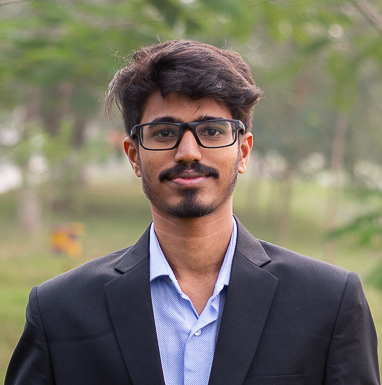
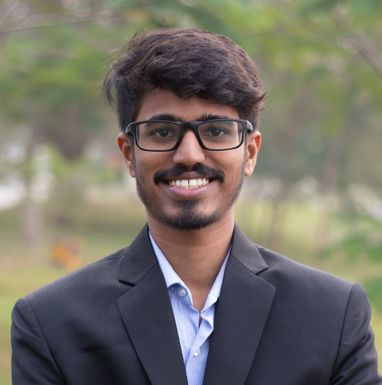
Cover and background changes

diff --git a/speakers.html b/speakers.html
@@ -62,7 +62,7 @@
 <!--header end here-->
 
 <!--page title section-->
-<section class="inner_cover parallax-window" data-parallax="scroll" data-image-src="assets/img/bg/speakers1.jpeg">
+<section class="inner_cover parallax-window" data-parallax="scroll" data-image-src="assets/img/bg/speakers2.jpeg">
     <div class="overlay_dark"></div>
     <div class="container">
         <div class="row justify-content-center align-items-center">
@@ -97,12 +97,12 @@
         <div class="row justify-content-center">
             <div class="col-12 col-md-6">
                 <p align="justify">
-                    At TEDxIITG, we invite speakers from a myriad of backgrounds to share their innovations, struggles and thereby to encourage the audience towards a better, fuller and a sustainable society. As a technical institute IIT Guwahati has always been a supporter of change, inventions, innovation and new 
+                    At TEDxIITGuwahati, we invite speakers from a myriad of backgrounds to share their innovations, struggles and thereby to encourage the audience towards a better, fuller and a sustainable society. As a technical institute IIT Guwahati has always been a supporter of change, inventions, innovation and
                 </p>
             </div>
             <div class="col-12 col-md-6">
                 <p align="justify">
-                     ideas. TEDxIITG reflects the same spirit and holds trust in the esteemed speakers to be a medium for change and for the speakers to turn the audience into harbingers of change.
+                      new ideas. TEDxIITGuwahati reflects the same spirit and holds trust in the esteemed speakers to be a medium for change and for the speakers to turn the audience into harbingers of change.
                 </p>
             </div>
         </div>
@@ -206,7 +206,7 @@
                 </div>
                 <div class="speaker_social">
                     <p align="justify">
-                        Mr. Ravindranath Ravi is resolute and a focused social activist. He has selflessly devoted his entire life towards creation of training systems and successful livelihood options for the so-called backward society. His powerful talk in the 2016 edition of TEDxIITG shed light upon how he managed to turn flood-ravaged regions of Assam into successful villages by creating new and alternative livelihoods. 
+                        Mr. Ravindranath Ravi is resolute and a focused social activist. He has selflessly devoted his entire life towards creation of training systems and successful livelihood options for the so-called backward society. His powerful talk in the 2016 edition of TEDxIITGuwahati shed light upon how he managed to turn flood-ravaged regions of Assam into successful villages by creating new and alternative livelihoods. 
                     </p>
                 </div>
             </div>

diff --git a/index.html b/index.html
@@ -72,15 +72,17 @@
 <!--cover section slider -->
 <section id="home" class="home-cover">
     <div class="cover_slider owl-carousel owl-theme">
-        <div class="cover_item" style="background: url('assets/img/bg/ted-talks-2015.jpg');">
+        <div class="cover_item" style="background: url('assets/img/bg/cover1.jpeg');">
             <div class="slider_content">
                 <div class="slider-content-inner">
                     <div class="container">
                         <div class="slider-content-left">
                             <h2 class="cover-title">
+                                <font color="white" face="Helvetica" weight="regular">
                                 Prepare yourself for
+                            </font>
                             </h2>
-                            <strong class="cover-xl-text">TEDx <font color="white" face="Helvetica" weight="regular">IITGuwahati</font></strong>
+                            <strong class="cover-xl-text">TEDx<font color="white" face="Helvetica" weight="regular">IITGuwahati</font></strong>
                             <!-- <a href="#" class=" btn btn-primary btn-rounded" >
                                 Buy Tickets Now
                             </a> -->

diff --git a/past.html b/past.html
@@ -91,11 +91,11 @@
             <div class="col-12 col-md-6">
                 <div class="section_title1">
                     <h3 class="title1">
-                        TEDx IIT Guwahati 2016
+                        TEDxIITGuwahati 2016
                     </h3>
                 </div>
                 <p align="justify">
-                    TEDx IIT Guwahati is non-profit organization created with aim to bring you the people from all over India who are doing great work for mankind.
+                    TEDxIITGuwahati is non-profit organization created with aim to bring you the people from all over India who are doing great work for mankind.
 					In the spirit of ideas worth spreading, TED has created a program called TEDx. TEDx is a program of local, self-organized events that bring people together to share a TED-like experience. Our event is called TEDxIITGuwahati, where x = independently organized TED event. At our TEDxIITGuwahati event, TED Talks video and live speakers will combine to spark deep discussion and connection in a small group. The TED Conference provides general guidance for the TEDx program, but individual TEDx events, including ours, are self-organized.
 					<br>
                 </p>

diff --git a/assets/css/main.css b/assets/css/main.css
@@ -2065,8 +2065,8 @@ Cover
 }
 .cover_slider .cover_item .slider_content {
   display: table;
-  background-color: rgba(0, 0, 0, 0.2);
-  height: 100%;
+  /*background-color: rgba(0, 0, 0, 0.2);
+  */height: 100%;
   width: 100%;
   position: relative;
   top: 0;
